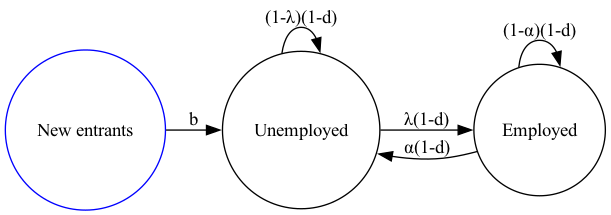
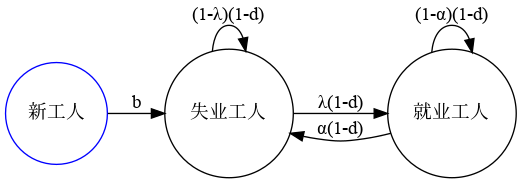
[lake_model] Translation Updating (#160)
* Update lake_model.md

* updates

* update graphviz figure

---------

diff --git a/lectures/lake_model.md b/lectures/lake_model.md
@@ -12,7 +12,9 @@ kernelspec:
 ---
 
 # 就业的湖泊模型
+
 ## 大纲
+
 除了 Anaconda 中包含的内容外，本讲座还需要以下库：
 
 ```{code-cell} ipython3
@@ -26,6 +28,7 @@ plt.rcParams['font.family'] = ['Source Han Serif SC']
 ```
 
 ## 湖泊模型
+
 这个模型有时被称为**湖泊模型**，因为存在两个工人群体：
 1. 当前就业的工人。
 2. 当前失业但正在寻找工作的工人。
@@ -45,8 +48,11 @@ plt.rcParams['font.family'] = ['Source Han Serif SC']
 ```
 
 ## 动态变化
+
 设 $e_t$ 和 $u_t$ 分别表示在时间 $t$ 时就业和失业工人的数量。
+
 工人总人口为 $n_t = e_t + u_t$。
+
 因此，失业和就业工人的数量按以下方式变化：
 
 ```{math}
@@ -59,7 +65,7 @@ plt.rcParams['font.family'] = ['Source Han Serif SC']
 \end{aligned}
 ```
 
-我们可以将{eq}`lake_model`安排为矩阵形式的线性方程组 $x_{t+1} = Ax_t$，其中
+我们可以将{eq}`lake_model`整理为矩阵形式的线性方程组 $x_{t+1} = Ax_t$，其中
 
 $$
 x_{t+1} =
@@ -87,13 +93,14 @@ $$
 
 因此，该系统的长期结果可能取决于初始条件 $x_0$ 和矩阵 $A$。
 
-我们关心 $u_t$ 和 $e_t$ 随时间如何演变。
+我们关心 $u_t$ 和 $e_t$ 如何随时间如何演变。
 
-我们应该预期什么样的长期失业率和就业率？
+失业率和就业率从长期来看会如何变化？
 
 长期结果是否取决于初始值 $(u_0, e_o)$？
 
 ### 可视化长期结果
+
 让我们首先绘制失业率 $u_t$、就业率 $e_t$ 和劳动力 $n_t$ 的时间序列图。
 
 ```{code-cell} ipython3
@@ -105,7 +112,7 @@ class LakeModel:
      ------------
      λ：标量
     当前失业工人的找到工作的比率
-    α：标量
+     α：标量
     当前就业工人的解雇率
      b：标量
     进入劳动力市场的比率
@@ -143,7 +150,7 @@ class LakeModel:
         x：迭代器
         包含就业率和失业率的序列
         """
-        x0 = np.atleast_1d(x0)  # 以防万一，重新转换为数组
+        x0 = np.atleast_1d(x0)  # 重新转换为数组
         x_ts= np.zeros((2, T))
         x_ts[:, 0] = x0
         for t in range(1, T):
@@ -180,16 +187,15 @@ for ax in axes:
 plt.tight_layout()
 plt.show()
 ```
-将劳动力 $n_t$ 以恒定速率增长的观察结果并不令人惊讶。
+不出所料，我们观察到劳动力$n_t$以恒定的速率增长。
 
-这与失业和就业池只有一个流入源（新进入者池）的事实相吻合。
+这与只有一个流入源（新进入者池）流向失业和就业池的事实相吻合。
 
-劳动力市场系统的流入和流出
-在长期内由劳动力市场的固定退出率和进入率决定。
+从长期来看，劳动力市场系统的流入和流出是由劳动力市场的恒定退出率和进入率决定的。
 
 具体来说，令 $\mathbb{1}=[1, 1]^\top$ 为一个全1向量。
 
-观察到
+我们可以得出
 
 $$
     \begin{aligned}
@@ -207,24 +213,24 @@ $$
 
 ### 佩龙-弗罗贝尼乌斯定理的应用
 
-直观上，如果我们将失业池和就业池视为一个封闭系统，其增长应与劳动力相似。
+从直觉上讲，如果我们将失业池和就业池视为一个封闭系统，其增长应该与劳动力相似。
 
-接下来我们询问 $e_t$ 和 $u_t$ 的长期增长率
-是否也由 $1+b-d$ 主导，就像劳动力一样。
+接下来我们要问，$e_t$ 和 $u_t$ 的长期增长率
+是否也像劳动力一样主要由 $1+b-d$ 决定？
 
-如果我们求助于{ref}`佩龙-弗罗贝尼乌斯定理<perron-frobe>`，答案将更加清晰。
+如果我们应用{ref}`佩龙-弗罗贝尼乌斯定理<perron-frobe>`，答案将更加清晰。
 
 佩龙-弗罗贝尼乌斯定理的重要性源于以下事实：
+
 首先，在现实世界中，我们遇到的大多数矩阵都是非负矩阵。
 
-其次，许多重要模型都是简单的线性迭代模型，
-从初始条件 $x_0$ 开始，然后按规则 $x_{t+1} = Ax_t$ 或简写为 $x_t = A^tx_0$ 递归演变。
+其次，许多重要模型只是线性迭代模型，它们从初始条件$x_0$开始，然后通过规则$x_{t+1} = Ax_t$或简写为$x_t = A^tx_0$递归演化。
 
-这个定理有助于表征主导特征值 $r(A)$，它
-决定了这个迭代过程的行为。
+这个定理有助于描述主特征值$r(A)$，它决定了这个迭代过程的行为。
 
 #### 主导特征向量
-现在我们通过展示佩龙-弗罗贝尼乌斯定理如何帮助我们分析湖泊模型来说明它的力量。
+
+现在我们学习如何运用佩龙-弗罗贝尼乌斯定理来帮助我们分析湖泊模型。
 
 由于 $A$ 是非负且不可约的矩阵，佩龙-弗罗贝尼乌斯定理意味着：
 
@@ -241,13 +247,13 @@ $$
     A \phi = r(A) \phi, \quad  \psi A = r(A) \psi
 $$
 
-- 如果进一步 $A$ 是正的，那么当 $<\psi, \phi> = \psi \phi=1$ 时，我们有
+- 如果进一步假设 $A$ 是正的，那么当 $<\psi, \phi> = \psi \phi=1$ 时，我们有
 
 $$
     r(A)^{-t} A^t \to \phi \psi
 $$
 
-最后一个陈述意味着长期来看，$A^t$ 的量级与 $r(A)^t$ 的量级相同，其中 $r(A)$ 在本讲座中可被视为主导特征值。
+最后一个陈述意味着长期来看，$A^t$ 的量级与 $r(A)^t$ 的量级相同，其中 $r(A)$ 在本讲座中可被视为主特征值。
 
 因此，长期来看，$x_t = A^t x_0$ 的量级也由 $r(A)^t$ 主导。
 
@@ -259,7 +265,7 @@ $$
 \min_j \text{colsum}_j (A) \leq r(A) \leq \max_j \text{colsum}_j (A)
 ```
 
-注意，对于 $j=1,2$，$\text{colsum}_j(A) = 1 + b - d$，根据{eq}`PF_bounds`，我们因此可以得出主特征值为 $r(A) = 1 + b - d$。
+注意，对于 $j=1,2$，有$\text{colsum}_j(A) = 1 + b - d$，且根据{eq}`PF_bounds`，我们可以得出主特征值为 $r(A) = 1 + b - d$。
 
 令 $g = b - d$ 表示总劳动力的整体增长率，因此 $r(A) = 1 + g$。
 
@@ -304,11 +310,11 @@ def plot_time_paths(lm, x0=None, T=1000, ax=None):
 
         if ax is None:
             fig, ax = plt.subplots(figsize=(10, 8))
-            # Plot line D
+            # 绘制线$D$
             s = 10
-            ax.plot([0, s * ū], [0, s * ē], "k--", lw=1, label='set $D$')
+            ax.plot([0, s * ū], [0, s * ē], "k--", lw=1, label='设置$D$')
 
-        # Set the axes through the origin
+        # 设置通过原点的坐标轴
         for spine in ["left", "bottom"]:
             ax.spines[spine].set_position("zero")
         for spine in ["right", "top"]:
@@ -364,6 +370,7 @@ $D := \{ x \in \mathbb{R}^2 : x = \alpha \bar{x} \; \text{对某些} \; \alpha >
 这表明所有这样的序列在长期内都具有很强的相似性，由主特征向量 $\bar{x}$ 决定。
 
 #### 负增长率
+
 在上面说明的例子中，我们考虑的参数使得劳动力的总体增长率 $g>0$。
 
 现在假设我们面临 $g<0$ 的情况，即劳动力呈负增长。
@@ -389,7 +396,7 @@ plot_time_paths(lm, x0=x0)
 
 由于 $A$ 的列和为 $r(A)=1$，左特征向量是 $\mathbb{1}^\top=[1, 1]$。
 
-佩龙-弗罗贝尼乌斯理论意味着
+佩龙-弗罗贝尼乌斯理论告诉我们
 
 $$
 r(A)^{-t} A^{t} \approx \bar{x} \mathbb{1}^\top = \begin{bmatrix} \bar{u} & \bar{u} \\ \bar{e} & \bar{e} \end{bmatrix}.
@@ -414,9 +421,10 @@ $$
 
 后者意味着 $\bar{u}$ 和 $\bar{e}$ 分别是长期失业率和就业率。
 
-具体来说，我们有失业率和就业率：当 $t \to \infty$ 时，$x_t / n_t = A^t n_0 / n_t \to \bar{x}$。
+具体来说，当 $t \to \infty$ 时，我们有失业率和就业率：$x_t / n_t = A^t n_0 / n_t \to \bar{x}$。
 
 为了说明这些比率的动态，令 $\hat{A} := A / (1+g)$ 为 $r_t := x_t/ n_t$ 的转移矩阵。
+
 比率的动态遵循
 
 $$
@@ -424,9 +432,9 @@ r_{t+1} = \frac{x_{t+1}}{n_{t+1}} = \frac{x_{t+1}}{(1+g) n_{t}} = \frac{A x_t}{(
 =\hat{A} r_t.
 $$
 
-注意到 $\hat{A}$ 的列和都为 1，因此 $r(\hat{A})=1$。
+注意 $\hat{A}$ 的列和都为 1，因此 $r(\hat{A})=1$。
 
-可以验证 $\bar{x}$ 也是 $\hat{A}$ 对应于 $r(\hat{A})$ 的右特征向量，即 $\bar{x} = \hat{A} \bar{x}$。
+我们可以验证 $\bar{x}$ 也是 $\hat{A}$ 对应于 $r(\hat{A})$ 的右特征向量，即 $\bar{x} = \hat{A} \bar{x}$。
 
 此外，对于任何 $r_0 = x_0 / n_0$，当 $t \to \infty$ 时，$\hat{A}^t r_0 \to \bar{x}$，因为上述讨论意味着
 
@@ -434,7 +442,7 @@ $$
 r_t = \hat{A}^t r_0 = (1+g)^{-t} A^t r_0 = r(A)^{-t} A^t r_0 \to \begin{bmatrix} \bar{u} & \bar{u} \\ \bar{e} & \bar{e} \end{bmatrix} r_0 = \begin{bmatrix} \bar{u} \\  \bar{e} \end{bmatrix}. 
 $$
 
-这在下面有所说明。
+我们用下面的代码来说明
 
 ```{code-cell} ipython3
 lm = LakeModel()
@@ -471,7 +479,7 @@ plt.tight_layout()
 plt.show()
 ```
 
-为了更直观地理解收敛性，我们在下面不使用佩龙-弗罗贝尼乌斯定理进一步解释收敛过程。
+为了能更直观地理解收敛性，我们在下面不使用佩龙-弗罗贝尼乌斯定理进一步解释收敛过程。
 
 假设 $\hat{A} = P D P^{-1}$ 是可对角化的，其中 $P = [v_1, v_2]$ 由 $\hat{A}$ 的特征向量 $v_1$ 和 $v_2$ 组成，
 分别对应于特征值 $\gamma_1$ 和 $\gamma_2$，
